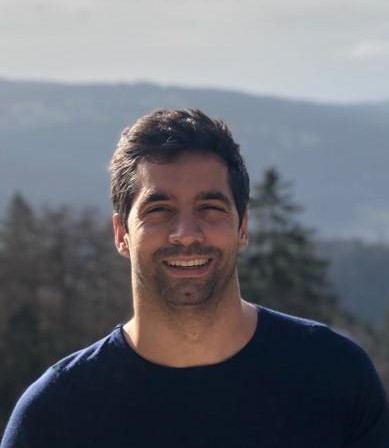
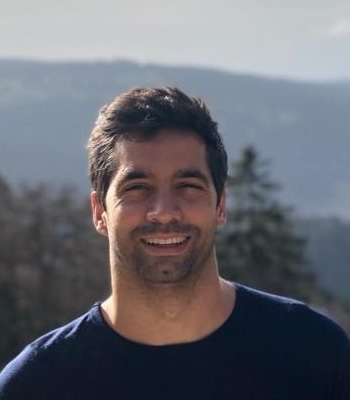
smaller photo

diff --git a/index.md b/index.md
@@ -9,7 +9,7 @@ layout: default
 <table style='table-layout:fixed; border:none; border-collapse:collapse; cellspacing:0; cellpadding:0'>
 <tr>
 
-<td width="18%" style='border:none; vertical-align: top;'>
+<td width="16%" style='border:none; vertical-align: top;'>
     <img src="{{site.photo}}"/>
 </td>
 
